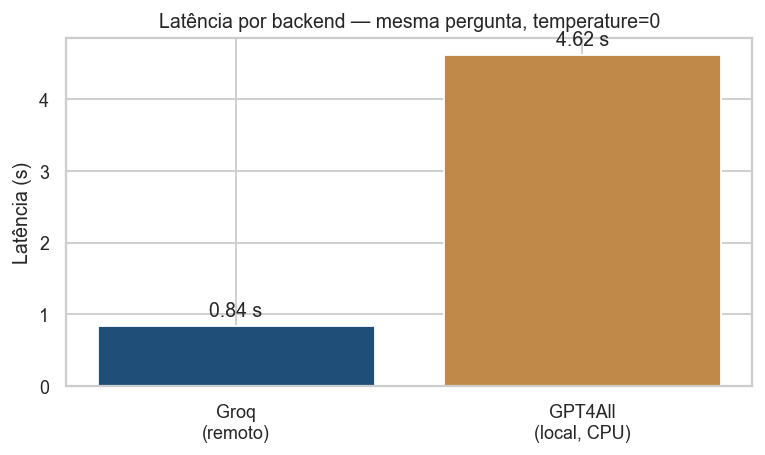
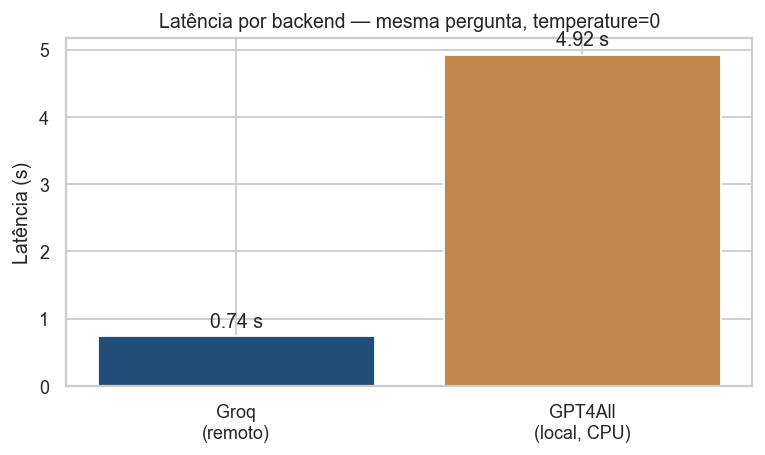
feat(finrag): tokenizer, avaliação Precision@k e aviso de reprodutibilidade
- Seção 1: célula com AutoTokenizer do encoder + análise da tokenização
  (janela de contexto, custo/latência por token) em Markdown.
- Seção 3: tabela quantitativa Precision@k (4 golden queries, Hit@3=100%,
  MRR≈0,71) com análise da recuperação semântica.
- README e intro do notebook: aviso de reprodutibilidade (1ª execução baixa
  ~2GB do GPT4All + sentence-transformers; depois roda 100% offline).
- Notebook reexecutado ponta a ponta (Run-All) e PDF do relatório atualizado.

diff --git a/README.md b/README.md
@@ -15,6 +15,14 @@
 
 > ⚠️ **Compliance e Privacidade:** *Projeto acadêmico. O cliente ("Gestora") é fictício e genérico. O corpus é 100% público ou sintético. Nenhuma instituição financeira real é citada. Nenhuma chave de API, token ou dado sensível corporativo foi ingerido ou exposto neste repositório.*
 
+> ### ⚠️ Aviso de Reprodutibilidade
+>
+> **A primeira execução deste pipeline requer acesso à Internet** para o download
+> automático dos pesos do modelo local **GPT4All** (`Llama-3.2-3B-Instruct`, ~2 GB)
+> e do encoder **`sentence-transformers`** para o cache local da máquina. Reserve
+> tempo e banda para esse download inicial. **Depois disso, o sistema opera de forma
+> 100% offline e privada** — nenhum texto do corpus precisa sair da máquina.
+
 Sistema cognitivo que recebe perguntas em linguagem natural, recupera trechos
 relevantes de uma base de conhecimento por **busca vetorial** e gera respostas
 **fundamentadas, estruturadas e auditáveis** usando LLMs — com a opção de execução